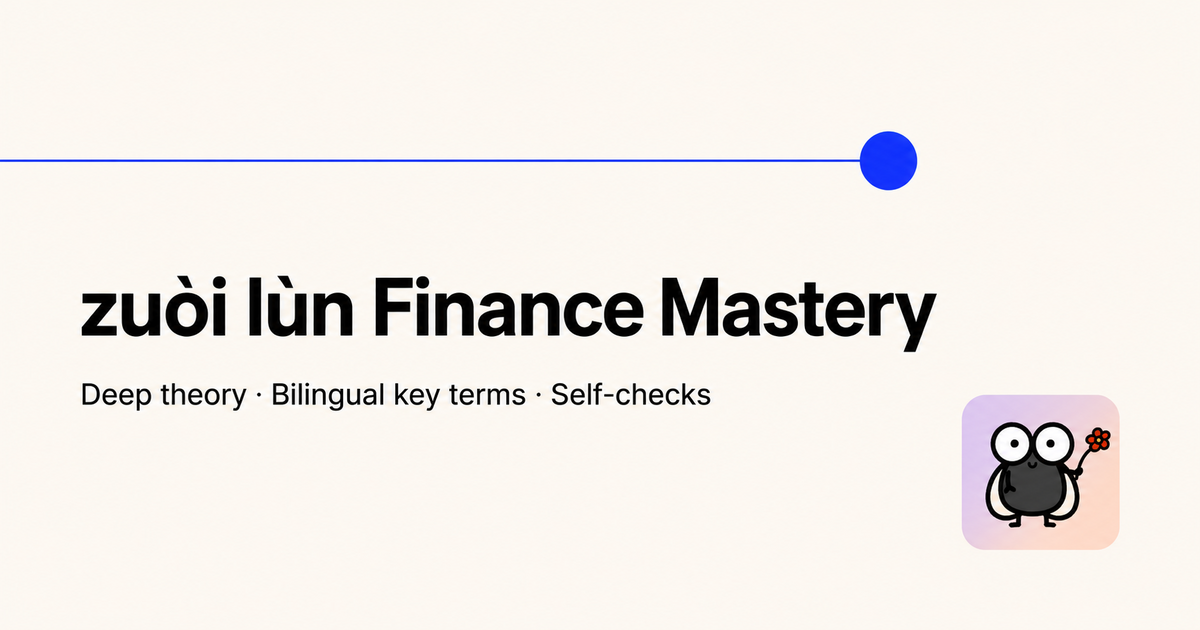
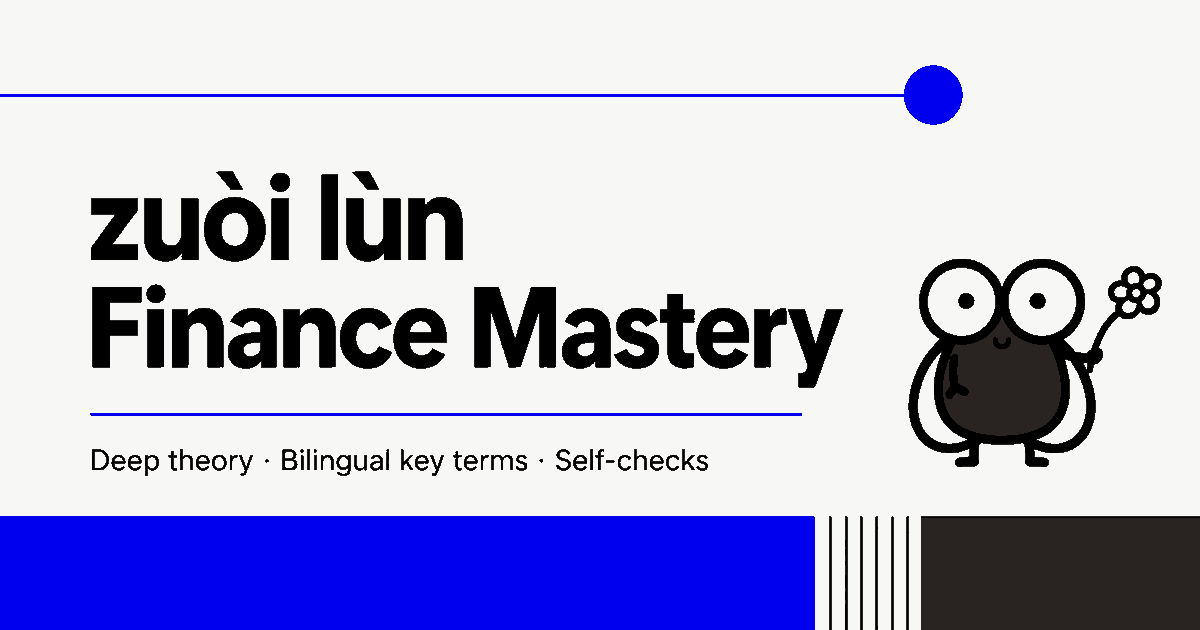
Add files via upload

diff --git a/styles.css b/styles.css
@@ -534,50 +534,50 @@
 .study-note-comment>p{margin:0}
 
 /* =========================================================
-   V3.0 — DUNA-INSPIRED EDITORIAL SYSTEM
-   High contrast, spacious grids, cobalt action color and the
-   shared zuòi lùn mascot. Learning content remains the focus.
+   V3.1 — DUNA PALETTE EDITORIAL SYSTEM
+   Duna's core black / brown-black / electric-blue / off-white
+   palette, applied to the zuòi lùn finance learning experience.
    ========================================================= */
 :root{
   --cream:#f7f7f5;
   --paper:#ffffff;
-  --green:#0d0d0d;
+  --green:#000000;
   --green2:#292421;
-  --green3:#eef0ff;
-  --ink:#0d0d0d;
+  --green3:#eeeeff;
+  --ink:#000000;
   --muted:#6d6b67;
-  --yellow:#2948ff;
-  --yellow2:#eef0ff;
+  --yellow:#0000ee;
+  --yellow2:#eeeeff;
   --line:#deded8;
   --red:#c84949;
-  --cobalt:#2948ff;
-  --cobalt-dark:#1732d7;
-  --lavender:#c9c9ff;
+  --cobalt:#0000ee;
+  --cobalt-dark:#292421;
+  --lavender:#d9d9ff;
   --mint:#baf4cf;
   --peach:#ffcfb6;
-  --shadow:0 24px 70px rgba(13,13,13,.10);
+  --shadow:0 24px 70px rgba(0,0,0,.10);
   --font:Inter,ui-sans-serif,-apple-system,BlinkMacSystemFont,"Segoe UI",sans-serif;
   --display:"Helvetica Neue",Arial,ui-sans-serif,sans-serif;
 }
 html{background:var(--cream)}
 body{
   background:
-    linear-gradient(rgba(13,13,13,.025) 1px,transparent 1px),
-    linear-gradient(90deg,rgba(13,13,13,.025) 1px,transparent 1px),
+    linear-gradient(rgba(0,0,0,.025) 1px,transparent 1px),
+    linear-gradient(90deg,rgba(0,0,0,.025) 1px,transparent 1px),
     var(--cream);
   background-size:64px 64px;
   color:var(--ink);
 }
 ::selection{background:var(--lavender);color:var(--ink)}
 .shell{width:min(1240px,calc(100% - 48px))}
-.site-header{background:rgba(247,247,245,.9);border-bottom:1px solid rgba(13,13,13,.09);backdrop-filter:blur(18px) saturate(130%)}
-.header-meta{height:28px;border-bottom:1px solid rgba(13,13,13,.065);color:#706e69;font-size:.64rem;letter-spacing:.08em;text-transform:uppercase}
+.site-header{background:rgba(247,247,245,.92);border-bottom:1px solid rgba(0,0,0,.09);backdrop-filter:blur(18px) saturate(130%)}
+.header-meta{height:28px;border-bottom:1px solid rgba(0,0,0,.065);color:#706e69;font-size:.64rem;letter-spacing:.08em;text-transform:uppercase}
 .header-meta span:first-child{display:flex;align-items:center;gap:8px;color:#36332f}
-.live-dot{width:7px;height:7px;border-radius:50%;background:var(--cobalt);box-shadow:0 0 0 4px rgba(41,72,255,.1)}
+.live-dot{width:7px;height:7px;border-radius:50%;background:var(--cobalt);box-shadow:0 0 0 4px rgba(0,0,238,.1)}
 .nav-shell{height:78px;gap:24px}
 .brand{min-width:245px;color:var(--ink);gap:12px}
-.brand-mark{width:46px;height:46px;border-radius:14px;overflow:hidden;background:linear-gradient(145deg,#ffd9c4,#cdc7ff 50%,#8293ff);box-shadow:0 8px 24px rgba(41,72,255,.16)}
-.brand-character img{width:116%;height:116%;max-width:none;object-fit:cover;mix-blend-mode:multiply;transform:translate(-6%,-5%)}
+.brand-mark{width:46px;height:46px;border:1px solid #000;border-radius:13px;overflow:hidden;background:#f7f7f5 url("./assets/brand-mark-user.png") center/cover no-repeat;box-shadow:0 8px 24px rgba(0,0,0,.12)}
+.brand-character img{display:block;width:100%;height:100%;max-width:none;object-fit:cover;mix-blend-mode:normal;transform:none;opacity:1;visibility:visible}
 .brand-copy strong{font-size:1.23rem;font-weight:780;letter-spacing:-.045em;text-transform:lowercase}
 .brand-copy small{margin-top:5px;font-size:.56rem;letter-spacing:.22em;color:#77736d}
 .top-nav{gap:4px}
@@ -589,7 +589,7 @@ body{
 .progress-pill span{font-weight:800}.progress-pill small{color:var(--muted);font-size:.63rem;text-transform:uppercase;letter-spacing:.08em}
 .primary-pill,.green-btn,.complete-btn{background:var(--ink);color:#fff}
 .primary-pill:hover,.green-btn:hover,.complete-btn:hover{background:var(--cobalt);transform:translateY(-1px)}
-.yellow-btn{background:var(--cobalt);color:#fff;box-shadow:0 12px 32px rgba(41,72,255,.24)}
+.yellow-btn{background:var(--cobalt);color:#fff;box-shadow:0 12px 32px rgba(0,0,238,.24)}
 .yellow-btn:hover{background:var(--cobalt-dark)}
 .outline-btn{border:1px solid #cfcfca;background:#fff;color:var(--ink)}
 .outline-btn:hover{border-color:var(--cobalt);background:var(--green3);color:var(--cobalt-dark)}
@@ -599,8 +599,8 @@ body{
 
 /* Home */
 .home-shell{padding-top:24px}
-.hero-card{min-height:650px;padding:clamp(42px,6vw,80px);border-radius:24px;background:#0d0d0d;color:#fff;box-shadow:0 34px 90px rgba(0,0,0,.2)}
-.hero-card:before{content:"";position:absolute;inset:0;z-index:-1;background:linear-gradient(115deg,transparent 50%,rgba(41,72,255,.96) 50% 100%);clip-path:polygon(0 0,100% 0,100% 100%,57% 100%)}
+.hero-card{min-height:650px;padding:clamp(42px,6vw,80px);border-radius:24px;background:#000;color:#fff;box-shadow:0 34px 90px rgba(0,0,0,.2)}
+.hero-card:before{content:"";position:absolute;inset:0;z-index:-1;background:linear-gradient(115deg,transparent 50%,rgba(0,0,238,.98) 50% 100%);clip-path:polygon(0 0,100% 0,100% 100%,57% 100%)}
 .hero-card:after{background:radial-gradient(circle at 73% 30%,rgba(255,255,255,.19),transparent 22%),linear-gradient(105deg,rgba(0,0,0,.16),transparent 56%)}
 .hero-copy{max-width:790px}
 .hero-kicker{display:inline-flex;padding:8px 12px;border:1px solid rgba(255,255,255,.22);border-radius:999px;color:#e5e5e1;font-size:.68rem;font-weight:750;letter-spacing:.11em;text-transform:uppercase}
@@ -609,15 +609,15 @@ body{
 .hero-copy p{max-width:620px;color:rgba(255,255,255,.76);font-size:clamp(1rem,1.6vw,1.23rem);line-height:1.58}
 .hero-art{right:0;width:48%;opacity:1}
 .hero-symbol{right:4%;top:7%;font-size:clamp(12rem,25vw,24rem);color:rgba(255,255,255,.08);transform:none}
-.hero-mascot{position:absolute;right:10%;top:25%;display:grid;place-items:center;width:min(25vw,280px);aspect-ratio:1;border-radius:34%;background:linear-gradient(145deg,#ffe0ce,#c9c5ff 48%,#8d9bff);box-shadow:0 30px 70px rgba(10,19,90,.3);transform:rotate(5deg)}
-.hero-mascot img{width:122%;height:122%;object-fit:cover;mix-blend-mode:multiply;transform:translate(-1%,-2%)}
+.hero-mascot{position:absolute;right:10%;top:25%;display:grid;place-items:center;width:min(25vw,280px);aspect-ratio:1;border:2px solid #fff;border-radius:34%;background:var(--cream);box-shadow:0 30px 70px rgba(0,0,0,.3);transform:rotate(5deg)}
+.hero-mascot img{width:100%;height:100%;object-fit:cover;mix-blend-mode:normal;transform:none;border-radius:inherit}
 .o1{width:470px;height:470px;right:-80px;top:86px}.o2{width:320px;height:320px;right:10px;top:155px;border-color:rgba(255,255,255,.22)}
 .hero-note{right:28px;bottom:26px;display:flex;flex-wrap:wrap;justify-content:flex-end;gap:7px;color:#fff}
 .hero-note span{padding:7px 10px;border:1px solid rgba(255,255,255,.2);border-radius:999px;background:rgba(0,0,0,.16);backdrop-filter:blur(10px);font-size:.63rem;letter-spacing:.04em}
 .pillars{gap:16px;padding:50px 0 74px}
 .pillars article{padding:20px 4px 0;border-top-color:#bdbdb7}.pillars span{color:var(--cobalt)}.pillars h3{font-size:1.15rem}.pillars p{line-height:1.65}
 .metric-card{background:var(--cobalt);color:#fff;border-radius:20px}.metric-card>p{color:rgba(255,255,255,.75)}.mini-bars i{background:rgba(255,255,255,.2)}.mini-bars u{background:#fff}
-.soft-section{background:#0d0d0d;color:#fff;padding-top:86px;padding-bottom:92px}
+.soft-section{background:#000;color:#fff;padding-top:86px;padding-bottom:92px}
 .soft-section:before,.soft-section:after{display:none}
 .soft-section .section-head p{color:#a9a8a4}.soft-section .eyebrow{color:#8ea0ff}
 .module-showcase{gap:12px}
@@ -625,17 +625,17 @@ body{
 .module-card:hover{border-color:#657cff;background:#20201f;box-shadow:0 24px 60px rgba(0,0,0,.35)}
 .module-icon{border-radius:12px;background:var(--cobalt);color:#fff}.module-card>span,.module-card-foot{color:#9eacff}.module-card p{color:#aaa9a5}
 .stat-strip{border-top:1px solid #d3d3cd;border-bottom:1px solid #d3d3cd;margin:52px 0;padding:34px 0}.stat-strip strong{font-size:2.65rem}.stat-strip div{border-color:#d3d3cd}
-.collage-card{border-radius:20px;background:linear-gradient(145deg,#0d0d0d 0 58%,var(--cobalt) 58%);box-shadow:var(--shadow)}
+.collage-card{border-radius:20px;background:linear-gradient(145deg,#000 0 58%,var(--cobalt) 58%);box-shadow:var(--shadow)}
 .yellow-sticker{background:#fff;color:var(--ink);border-radius:12px}.badge-round{background:var(--lavender);color:var(--ink)}
 .fake-chart i{background:rgba(255,255,255,.12)}
 
 /* Course and lessons */
-.wide-module-card,.lesson-row,.question-card,.bank-row,.mistake-row,.saved-list article,.source-list article,.note-card,.formula-card,.calc-panel,.settings-card,.menu-grid button,.analytics-hero>div,.analytics-table article,.glossary-grid article{border-color:#d8d8d3;border-radius:16px;box-shadow:0 10px 30px rgba(13,13,13,.035)}
+.wide-module-card,.lesson-row,.question-card,.bank-row,.mistake-row,.saved-list article,.source-list article,.note-card,.formula-card,.calc-panel,.settings-card,.menu-grid button,.analytics-hero>div,.analytics-table article,.glossary-grid article{border-color:#d8d8d3;border-radius:16px;box-shadow:0 10px 30px rgba(0,0,0,.035)}
 .wide-num,.lesson-row>button{border-radius:12px;background:var(--green3);color:var(--cobalt)}
 .progress-line{background:#e8e8e3}.progress-line i{background:var(--cobalt)}
-.module-intro-card{border-radius:20px;background:#0d0d0d}.module-score{border-radius:14px;background:var(--cobalt);color:#fff}
-.lesson-article{max-width:1040px;border-radius:22px;border-color:#d8d8d3;box-shadow:0 28px 76px rgba(13,13,13,.08)}
-.lesson-banner{padding:58px 62px;background:linear-gradient(112deg,#0d0d0d 0 70%,#2948ff 70% 100%)}
+.module-intro-card{border-radius:20px;background:#000}.module-score{border-radius:14px;background:var(--cobalt);color:#fff}
+.lesson-article{max-width:1040px;border-radius:22px;border-color:#d8d8d3;box-shadow:0 28px 76px rgba(0,0,0,.08)}
+.lesson-banner{padding:58px 62px;background:linear-gradient(112deg,#000 0 70%,#0000ee 70% 100%)}
 .lesson-banner h1{max-width:780px;font-size:clamp(2.7rem,6vw,5.4rem);font-weight:760;letter-spacing:-.07em}
 .priority-source-banner{padding-left:62px;padding-right:62px;background:#ececff;border-color:#d7d7ff}.priority-source-banner>span{background:var(--cobalt)}
 .theory-block{padding:48px 62px}.intuition{background:#eff0ff}.intuition .block-label{color:var(--cobalt)}
@@ -658,10 +658,10 @@ body{
 .self-check-head{display:flex;align-items:start;justify-content:space-between;gap:18px}.self-check-head span{display:block;color:var(--cobalt);font-size:.58rem;font-weight:850;letter-spacing:.12em}.self-check-head h4{margin:5px 0 0;font-size:1rem}.self-check-head>b{padding:5px 8px;border-radius:999px;background:#e4e7ff;color:#4352ad;font-size:.61rem;white-space:nowrap}
 .self-check-question{margin:18px 0 14px!important;color:var(--ink)!important;font-size:1.03rem!important;font-weight:680;line-height:1.55!important}
 .self-check-response{display:grid;gap:7px}.self-check-response>span{color:#686663;font-size:.68rem;font-weight:700}
-.self-check-response textarea{width:100%;resize:vertical;padding:14px;border:1px solid #d8d8d3;border-radius:12px;outline:0;background:#fff;color:var(--ink);font:inherit;line-height:1.6}.self-check-response textarea:focus{border-color:var(--cobalt);box-shadow:0 0 0 3px rgba(41,72,255,.1)}
+.self-check-response textarea{width:100%;resize:vertical;padding:14px;border:1px solid #d8d8d3;border-radius:12px;outline:0;background:#fff;color:var(--ink);font:inherit;line-height:1.6}.self-check-response textarea:focus{border-color:var(--cobalt);box-shadow:0 0 0 3px rgba(0,0,238,.1)}
 .self-check-actions{display:flex;align-items:center;flex-wrap:wrap;gap:8px;margin-top:12px}.self-check-actions>span{margin-left:auto;color:#77736e;font-size:.68rem}
 .confidence-btn{min-height:35px;padding:0 11px;border:1px solid #d2d2cd;border-radius:999px;background:#fff;color:#55524e;font-size:.68rem;font-weight:750}.confidence-btn.active{border-color:var(--cobalt);background:var(--cobalt);color:#fff}
-.self-check-model{margin-top:16px;padding:18px;border-radius:13px;background:#0d0d0d;color:#fff}.self-check-model>span{color:#92a1ff;font-size:.59rem;font-weight:850;letter-spacing:.12em}.self-check-model>p{margin:10px 0;color:#dededa!important;line-height:1.72}.model-checklist,.reasoning-path{margin-top:12px;padding:13px;border:1px solid #30302f;border-radius:11px;background:#181817}.model-checklist ul,.reasoning-path ol{margin:8px 0 0;padding-left:20px;color:#c9c8c3;font-size:.78rem;line-height:1.65}
+.self-check-model{margin-top:16px;padding:18px;border-radius:13px;background:#000;color:#fff}.self-check-model>span{color:#a7a7ff;font-size:.59rem;font-weight:850;letter-spacing:.12em}.self-check-model>p{margin:10px 0;color:#dededa!important;line-height:1.72}.model-checklist,.reasoning-path{margin-top:12px;padding:13px;border:1px solid #30302f;border-radius:11px;background:#181817}.model-checklist ul,.reasoning-path ol{margin:8px 0 0;padding-left:20px;color:#c9c8c3;font-size:.78rem;line-height:1.65}
 
 /* Bilingual vocabulary */
 .term-grid{padding:42px 62px;background:#f1f1ff;gap:12px}.term-grid::before{color:var(--cobalt);content:"KEY TERMS · ENGLISH  ↔  TIẾNG VIỆT"}
@@ -669,7 +669,7 @@ body{
 .term-grid span{color:#67637f}.glossary-vi{margin:0 0 9px!important;padding:7px 9px;border-radius:9px;background:#efefff;color:#565071!important;font-size:.77rem}.glossary-vi b{color:var(--cobalt-dark)}
 
 /* Interactive knowledge checks */
-.inline-knowledge-wrap{background:#0d0d0d;color:#fff}
+.inline-knowledge-wrap{background:#000;color:#fff}
 .inline-knowledge{padding:4px 0}.inline-knowledge-head{display:flex;align-items:start;justify-content:space-between;gap:20px}.inline-knowledge-head .block-label{color:#9ba8ff}.inline-knowledge-head h2{color:#fff}.knowledge-topic{padding:7px 10px;border:1px solid #3a3a38;border-radius:999px;color:#c9c8c4;font-size:.64rem}
 .inline-knowledge-question{max-width:820px;margin:24px 0!important;color:#fff!important;font-size:1.12rem!important;font-weight:650}
 .inline-knowledge-options{display:grid;grid-template-columns:repeat(2,minmax(0,1fr));gap:9px}
@@ -680,9 +680,9 @@ body{
 /* Timelines and guided practice */
 .timeline-section{background:#eff0ff!important}.finance-timeline{border-color:#d2d5ff;border-radius:16px}.timeline-event i{background:var(--cobalt)}.timeline-event:before{border-color:#9ba7ff}.process-timeline>li>span{background:var(--cobalt)}
 .guided-practice-section{background:#fff!important}.guided-problem{border-color:#d8d8d3;border-radius:14px}.problem-index{border-radius:10px;background:#ededff;color:var(--cobalt)}.guided-problem[open] .solution-toggle,.solution-answer{background:var(--cobalt)}.solution-hint{background:#eff0ff;border-color:#d7d9ff}.guided-solution>ol li>span{background:#e6e8ff;color:var(--cobalt)}
-.formula-section{background:#f3f3f0!important}.math-display{background:linear-gradient(135deg,#0d0d0d,#232323);color:#fff}.formula-card-head>span,.formula-card-top>span{background:#e9ebff;color:var(--cobalt-dark)}
-.exam-hero{background:#0d0d0d}.exam-hero>strong{color:#9cabff}.score-hero{background:var(--cobalt);color:#fff}.calc-tabs button.active{background:var(--cobalt)}.calc-result{background:#eceeff}.flash-back{background:var(--cobalt)}
-.toast{background:#0d0d0d}
+.formula-section{background:#f3f3f0!important}.math-display{background:linear-gradient(135deg,#000,#292421);color:#fff}.formula-card-head>span,.formula-card-top>span{background:#e9ebff;color:var(--cobalt-dark)}
+.exam-hero{background:#000}.exam-hero>strong{color:#a7a7ff}.score-hero{background:var(--cobalt);color:#fff}.calc-tabs button.active{background:var(--cobalt)}.calc-result{background:#eceeff}.flash-back{background:var(--cobalt)}
+.toast{background:#000}
 
 /* Global search */
 .global-search-dialog{width:min(820px,calc(100vw - 28px));max-height:min(760px,calc(100vh - 28px));padding:0;overflow:hidden;border:1px solid #343432;border-radius:20px;background:#111;color:#fff;box-shadow:0 35px 100px rgba(0,0,0,.45)}
@@ -691,6 +691,39 @@ body{
 .global-search-box{display:grid;grid-template-columns:28px minmax(0,1fr) auto;align-items:center;gap:9px;margin:0 25px;padding:13px 15px;border:1px solid #44443f;border-radius:13px;background:#1b1b1a}.global-search-box>span{font-size:1.3rem}.global-search-box input{min-width:0;border:0;outline:0;background:transparent;color:#fff;font-size:1rem}.global-search-box kbd{padding:4px 6px;border:1px solid #444;border-radius:6px;color:#888;font-size:.58rem}
 .global-search-results{max-height:540px;overflow:auto;padding:16px 25px 25px}.search-count{margin-bottom:9px;color:#8d8c87;font-size:.64rem;text-transform:uppercase;letter-spacing:.1em}.global-search-result{display:grid;grid-template-columns:74px minmax(0,1fr) auto;align-items:center;gap:13px;width:100%;padding:13px;border:0;border-top:1px solid #292927;background:transparent;color:#fff;text-align:left}.global-search-result:hover{background:#1b1d2b}.global-search-result>span{color:#93a2ff;font-size:.62rem;font-weight:800;text-transform:uppercase}.global-search-result h3{margin:0 0 3px;font-size:.92rem}.global-search-result p{margin:0;color:#94938f;font-size:.72rem;white-space:nowrap;overflow:hidden;text-overflow:ellipsis}.global-search-result>b{color:#8798ff}
 .search-empty{padding:28px 0;color:#aaa}.search-empty>span{color:#93a2ff;font-size:.62rem;font-weight:800;letter-spacing:.12em}.search-empty p{margin:7px 0 16px}.search-empty>div{display:grid;grid-template-columns:repeat(2,1fr);gap:8px}.search-empty button{display:flex;justify-content:space-between;padding:12px;border:1px solid #323230;border-radius:10px;background:#181817;color:#ddd;text-align:left}
+
+/* Duna palette normalization across every learning utility. Semantic
+   success/error colors remain distinct for accessible quiz feedback. */
+.theory-block p,.deep-learning-copy p,.deep-learning-copy ul{color:#292421}
+.worked,.lesson-source,.formula-section{background:#f7f7f5!important}
+.traps{background:#fff}
+.priority-source-banner,.intuition,.timeline-section,.term-grid,.section-term-support,.section-self-check,.solution-hint,.solution-why,.answer-panel,.calc-result,.source-note,.exam-bar{background:#eeeeff!important}
+.priority-source-banner,.section-term-support,.section-self-check,.finance-timeline,.solution-hint{border-color:rgba(0,0,238,.18)}
+.term-grid>div,.section-term-support>div{border-color:rgba(0,0,238,.14)}
+.term-grid span,.section-term-support small,.glossary-vi{color:#625f78!important}
+.glossary-vi{background:#f7f7f5}
+.complete-btn.done{background:#eeeeff;color:#0000ee}
+.lesson-row:hover,.wide-module-card:hover,.bank-row:hover,.menu-grid button:hover{border-color:#0000ee;background:#eeeeff}
+.annotation-toolbar{background:#000}
+.practice-toolbar select,.bank-tools select,.bank-tools input,.formula-search input,.calc-fields input{border-color:#cfcfca}
+.option{border-color:#d8d8d3;background:#fff}
+.option b{background:#eeeeff;color:#0000ee}
+.option:hover:not(:disabled),.option.selected{border-color:#0000ee;background:#eeeeff}
+.answer-panel>strong,.q-top,.bank-row span,.source-list small,.saved-list span,.note-card>span,.flash-front small,.formula-card>span{color:#0000ee}
+.formula-card code{background:#eeeeff;color:#292421}
+.calc-tabs button.active{border-color:#0000ee;background:#0000ee;color:#fff}
+.exam-nav-grid button.answered{background:#eeeeff;color:#0000ee}
+.exam-nav-grid button.current{outline-color:#0000ee}
+.analytics-hero strong,.analytics-table>article>span,.source-list article>span{color:#0000ee}
+.glossary-grid article>span{color:#e2e2ff}
+.notes-workspace{background:#f7f7f5;border-color:#deded8}
+.deep-check b,.timeline-caption b,.solution-hint b,.solution-why b,.timeline-title>span,.timeline-event .timeline-time,.process-timeline li b,.solution-toggle{color:#0000ee}
+.timeline-title>span,.timeline-event .timeline-time,.timeline-caption,.solution-toggle{background:#eeeeff}
+.timeline-event:before{border-color:#0000ee}
+.quality-line,.progress-line{background:#e8e8e3}.quality-line i,.progress-line i{background:#0000ee}
+.fm-highlight{background:#d9d9ff;color:#000}
+.global-search-head .eyebrow,.global-search-result>span,.global-search-result>b,.search-empty>span,.inline-knowledge-head .block-label,.module-card>span,.module-card-foot,.self-check-model>span{color:#a7a7ff}
+.global-search-result:hover{background:#20202c}
 
 @media(max-width:1000px){
   .hero-card:before{opacity:.8}.hero-mascot{right:3%;width:240px}.hero-copy{max-width:650px}.hero-copy p{max-width:510px}

diff --git a/index.html b/index.html
@@ -3,8 +3,8 @@
 <head>
   <meta charset="utf-8" />
   <meta name="viewport" content="width=device-width,initial-scale=1" />
-  <meta name="theme-color" content="#0d0d0d" />
-  <meta name="description" content="zuòi lùn Finance Mastery v3.0 — deep TCH 302 theory, bilingual key-term support, 144 section self-checks, readable timelines, guided problems and 600-question practice." />
+  <meta name="theme-color" content="#000000" />
+  <meta name="description" content="zuòi lùn Finance Mastery v3.1 — deep TCH 302 theory, bilingual key-term support, 144 section self-checks, readable timelines, guided problems and 600-question practice." />
   <meta name="color-scheme" content="light" />
   <meta property="og:type" content="website" />
   <meta property="og:title" content="zuòi lùn Finance Mastery" />
@@ -40,7 +40,7 @@
     </div>
     <div class="nav-shell shell">
       <a class="brand" href="#dashboard" aria-label="zuòi lùn Finance Mastery home">
-        <span class="brand-mark brand-character"><img src="assets/brand-mark-user.png" alt="" /></span>
+        <span class="brand-mark brand-character"><img src="./assets/brand-mark-user.png" width="46" height="46" alt="zuòi lùn mascot logo" fetchpriority="high" /></span>
         <span class="brand-copy"><strong>zuòi lùn</strong><small>FINANCE MASTERY</small></span>
       </a>
       <nav class="top-nav" id="topNav" aria-label="Primary navigation">

diff --git a/SOURCE_ALIGNMENT.md b/SOURCE_ALIGNMENT.md
@@ -1,4 +1,4 @@
-# Source Alignment — Finance Mastery v3.0
+# Source Alignment — Finance Mastery v3.1
 
 This build preserves the TCH 302 structure and expands it from summary-level notes into a teachable learning system.
 
@@ -11,7 +11,7 @@ This build preserves the TCH 302 structure and expands it from summary-level not
 
 ## Module mapping
 
-| Module | Main supplied sources | v3.0 depth retained and expanded |
+| Module | Main supplied sources | v3.1 depth retained and expanded |
 |---|---|---|
 | Introduction to Finance | Hoàng Kim Thanh Ch.0; 2023/2024 Introduction slides | real/financial asset symmetry, opportunity cost, incremental decisions, financing/working-capital links, agency controls and direct/indirect finance |
 | Time Value of Money | Hoàng Kim Thanh Ch.2/2.1; TVM lectures and tutorials | focal dates, rate-period consistency, derivation intuition, deferred/growing cash flows, loan balance, NPV/IRR failure modes and extensive timelines |
@@ -23,7 +23,7 @@ This build preserves the TCH 302 structure and expands it from summary-level not
 
 ## Exercise design
 
-The original 600-question bank is preserved. v3.0 retains 144 lesson-embedded guided problems and adds 144 section self-checks with direct model answers:
+The original 600-question bank is preserved. v3.1 retains 144 lesson-embedded guided problems and adds 144 section self-checks with direct model answers:
 
 - **Easy:** recognize the concept and apply one direct step.
 - **Intermediate:** combine two or more pieces of information and justify the formula/classification.

diff --git a/README.md b/README.md
@@ -1,10 +1,13 @@
-# zuòi lùn Finance Mastery — TCH 302 · v3.0
+# zuòi lùn Finance Mastery — TCH 302 · v3.1
 
 A static, GitHub Pages-ready learning system for **Principles of Finance (TCH 302)**. The site teaches in English, places accurate Vietnamese translations beside key terms, and combines deep theory with active recall, worked solutions, timelines and exam practice.
 
-## What is new in v3.0
+## What is new in v3.1
 
-- Complete visual redesign inspired by Duna's high-contrast editorial language: off-white canvas, black learning surfaces, cobalt action color, oversized typography, generous spacing and modular grids.
+- Exact Duna-derived core palette throughout the interface: electric blue `#0000EE`, black `#000000`, brown-black `#292421`, and warm off-white `#F7F7F5`.
+- Header mascot logo is now rendered as a real image with a CSS fallback and repository-relative URL, so it remains visible on GitHub Pages subpaths.
+
+- Complete visual redesign using Duna's high-contrast editorial language: off-white canvas, black learning surfaces, electric-blue action color, oversized typography, generous spacing and modular grids.
 - Shared **zuòi lùn** mascot, wordmark, favicon, Apple touch icon and installable web-app icons, aligned with the Accounting Mastery brand family.
 - **144 section self-checks** — one after every conceptual deep-dive section in all 48 lessons.
 - Every self-check includes an answer field, a question-specific guided answer, a reasoning checklist and a local confidence marker (`Review` / `Clear`).

diff --git a/AUDIT.md b/AUDIT.md
@@ -1,4 +1,4 @@
-# Finance Mastery v3.0 — Content & Function Audit
+# Finance Mastery v3.1 — Content & Function Audit
 
 ## Preserved product invariants
 
@@ -8,7 +8,7 @@
 - Vanilla HTML/CSS/JavaScript, hash routing and local-browser persistence.
 - All existing study utilities and their navigation routes.
 
-## Deep-content standard preserved in v3.0
+## Deep-content standard preserved in v3.1
 
 Every lesson now contains:
 
@@ -59,7 +59,7 @@ Personal contact metadata appearing inside study notes is not reproduced.
 - 144 section self-checks with direct model answers, one below every conceptual deep-dive section.
 - 48 applied inline knowledge checks with immediate option-by-option feedback.
 - Vietnamese key-term support placed beside relevant theory sections and retained in the bilingual glossary.
-- Duna-inspired editorial redesign and shared zuòi lùn brand assets.
+- Exact Duna core palette, editorial redesign, and shared zuòi lùn brand assets.
 - Difficulty sequence Easy → Intermediate → Advanced in every lesson.
 - 41 non-empty timeline records with valid rows/events.
 - No duplicate question IDs and no missing lesson references.

diff --git a/REDESIGN_AND_FEATURE_MAP.md b/REDESIGN_AND_FEATURE_MAP.md
@@ -2,7 +2,7 @@
 
 ## Design direction
 
-The v3.0 system adapts the useful principles of the Duna reference without copying its page or brand: large editorial headings, strong black/white contrast, cobalt emphasis, compact pill controls, modular product cards, clear metric strips and generous whitespace. Finance Mastery keeps its own course structure, mascot and study-focused information hierarchy.
+The v3.1 system uses Duna's core color language and editorial principles without copying its page structure: electric blue `#0000EE`, black `#000000`, brown-black `#292421`, warm off-white `#F7F7F5`, large editorial headings, compact pill controls, modular product cards, clear metric strips and generous whitespace. Finance Mastery keeps its own course structure, mascot and study-focused information hierarchy.
 
 ## Features learned from Accounting Mastery
 

diff --git a/CONTENT_COVERAGE.md b/CONTENT_COVERAGE.md
@@ -1,6 +1,6 @@
-# v3.0 Content Coverage
+# v3.1 Content Coverage
 
-v3.0 preserves every v2.0 content expansion and adds 144 section self-checks, 144 direct guided answers, 48 inline knowledge checks, nearby Vietnamese terminology support and a complete editorial redesign.
+v3.1 preserves every v2.0 content expansion and adds 144 section self-checks, 144 direct guided answers, 48 inline knowledge checks, nearby Vietnamese terminology support, a complete editorial redesign, the exact Duna core palette, and a GitHub Pages-safe header logo.
 
 | Module | Lessons | Guided problems | Timeline emphasis |
 |---|---:|---:|---|
